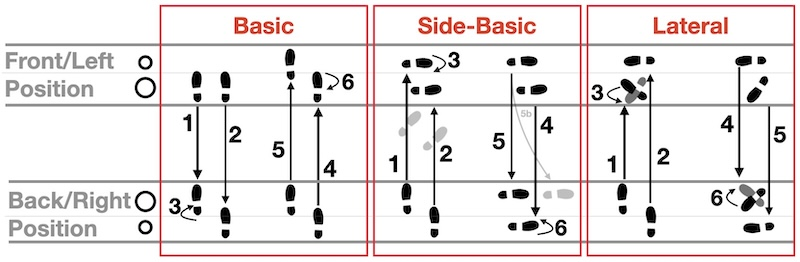
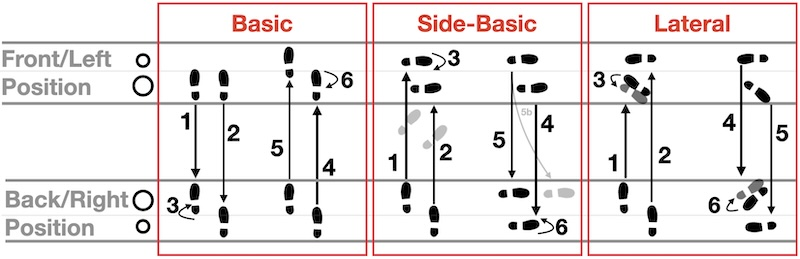
image explanations

Changed region(s): [[0.0, 0.0, 1.0, 0.9884], [0.625, 0.2162, 0.6875, 0.278], [0.5312, 0.5251, 0.5625, 0.6486]]

diff --git a/src/main/kotlin/zouk/tabBeginner/Steps.kt b/src/main/kotlin/zouk/tabBeginner/Steps.kt
@@ -13,8 +13,54 @@ fun ZoukBeginnerSections.steps(dsl: SectionedTabDsl) {
                     +"Which ever steps and moves we make, when there is a clear geometrical line to follow, "
                     +"the leader always steps out, freeing the path for the follower, creating a generous \"red carpet \". "
                 }
-                image("images/steps.jpg", 800 to 262, "Zouk Footwork Overview")
-
+            }
+            subSection("Overview") {
+                // =====================================================================================================
+                html {
+                    image("images/steps.jpg", 800 to 259, "Zouk Footwork Overview")
+                    p {
+                        +"The diagram above 👆🏻 shows the three most basic footwork in Zouk. "
+                        +"All three of them adhere the boom-chick-chick (long-short-short) pattern. "
+                        +"They are also placed on the same spots, distance wise, and thus are all compatible to each other. "; br
+                        +"The top and bottom row, surrounded by the ";b{+"grey line"};+", is the area in which the feet are being placed. "
+                        +"Both areas have two spots, indicated with a bigger and a smaller circle. "
+                        +"The top row is whenever you are positioned more to the front, or left respectively for the side-basic and lateral steps. "
+                        +"Analogous is the bottom row for the back/right position. ";br
+                    }
+                }
+                subSubSection("Basic") {
+                    html {
+                        p {
+                            +"Initial position with both feet next to each other, hip width apart. "
+                            +"Stepping backward (1) for the leader with the left; the follower steps with the right forward, mirroring the footwork. "
+                            +"This is the looong step on the boom, then the right foot follows (2) with a short step, finished with the left foot being lifted (3). "; br
+                            +"The right foot steps forward long on the boom (4), left short step close by (5) and right lifts again (6); and repeat. "
+                        }
+                    }
+                }
+                subSubSection("Side-Basic") {
+                    html {
+                        p {
+                            +"Assuming a basic position, feet hip width apart, left slightly in front of the right, and on the back position. "
+                            +"Step far with the left (long, boom; and also move out of the line of your follower), rotating 90 degrees clockwise (1). "
+                            +"Put the right next to it with a short step (2) and lift the left on the spot (3). "; br
+                            +"From there, the inner leg (in this case the right leg) steps outside of the outer position (4). "
+                            +"The outer leg follows either next to the other leg (5) or stepping a bit forward (5b) into the line of the follower. "
+                            +"Finishing with the outer leg lifting a bit (6). "
+                        }
+                    }
+                }
+                subSubSection("Lateral") {
+                    html {
+                        p {
+                            +"From the basic position, step long with the left foot and rotate it counter-clockwise towards your partner (1). "
+                            +"Bring the other leg in, next to the left one, and rotate it a quarter-turn facing your partner (2). "
+                            +"While you are lifting your left foot, also rotate it further counter-clockwise by a half-turn (3). "; br
+                            +"Stepping to the other side is a matter of crossing your right leg over the left (4) both toes pointing outwards in a V-shape. "
+                            +"Step the inner leg on the outer position (5), and rotate your other foot again by half a turn (6). "
+                        }
+                    }
+                }
             }
             subSection("Basic") {
                 // =====================================================================================================

diff --git a/src/main/kotlin/zouk/tabBeginner/SimpleMoves.kt b/src/main/kotlin/zouk/tabBeginner/SimpleMoves.kt
@@ -21,7 +21,14 @@ fun ZoukBeginnerSections.simple(dsl: SectionedTabDsl) {
                         +"Be patient, do it only on the short steps, so a pattern of: straight - turn - turn. "
                         +"For the beginning, it's easier to turn while the leader is in the back and not in the front position. "
                     }
-                    image("images/star.jpg", 450 to 457, "Rounded Star")
+                    image("images/star.jpg", 450 to 457, "Rounded Star by turning left when on the back")
+                    p {
+                        +"The image above 👆🏻 shows the star as a red line, whereas the black lines show the optimal ";b{+"rounded path"};+" to follow. "
+                        +"Start at the position indicated by the digit 1 (obviously), stepping backward and slightly turn already counter-clockwise while travelling on the chick. "
+                        +"Doing so will avoid a sharp turn, an abrupt experience, creating a bit of a shock moment. "; br
+                        +"Arriving at position 2 going backward, then straight forward to 3, and going backward again to 4 with a ";b{+"curved trajectory"};+". "; br
+                        +"Continue doing so until you reach the 8 and are back in the initial position, finishing a full star."
+                    }
                     youtube("li2As92QDBY?si=1biewGcw4_qQm8FM", "Star as a sequence of turns (on the back only) to the left")
                 }
             }
@@ -29,18 +36,20 @@ fun ZoukBeginnerSections.simple(dsl: SectionedTabDsl) {
                 // =====================================================================================================
                 html {
                     p {
-                        +"Basically a more continuous (every single, instead of every second) routine than the ";ref(ZoukRef.StarMove);+". "
-                        +"Doing a 90-degree turn left (or right respectively) with each chick-chick, ending up in the same direction again after 4 turns (360 degrees). "
+                        +"Basically doing a sequence of turns, just as we did with the ";ref(ZoukRef.StarMove);+" but then on the backside ";i{+"as well as"};+" on the frontside. "
+                        +"Doing a 90-degree turn left (or right respectively) with each chick-chick, ending up in the same direction again after 4 turns (4x90 = 360 degrees). "
                     }
                     youtube(
                         "KemOjG2OgAI?si=CttNiLRjtfZQV8BE", "From close basic, doing a square to the left, four times"
                     )
-                    p {
-                        +"Adhering the principle of always rounding the corners, avoiding sharp edges, follow a footwork as depicted below. "
-                        +"Instead of turning 90 degrees counter-clockwise on the spot, first step a bit out of the box/square. "
-                        +"This will make a significant difference in experienced smoothness for you and your follower. "
-                    }
                     image("images/square.jpg", 400 to 399, "Rounded Square")
+                    p {
+                        +"Adhering the principle of always ";b{+"rounding the corners"};+" follow a footwork as shown above 👆🏻. "
+                        +"Instead of turning 90 degrees counter-clockwise on the spot, first step a bit out of the box/square. "
+                        +"Do so when travelling backward as well as forward. "; br
+                        +"This will make a significant difference in experienced smoothness for you and your follower. "
+
+                    }
                 }
             }
             subSection("Simple Turn") {

diff --git a/src/main/kotlin/zouk/tabPreadvanced/NewMoves.kt b/src/main/kotlin/zouk/tabPreadvanced/NewMoves.kt
@@ -84,7 +84,7 @@ fun ZoukPreadvancedSections.newMoves(dsl: SectionedTabDsl) {
                         +"In Cambre, like with Embrace, all kinds of body-waves are possible here again. "
                     }
                     p {
-                        +"The left hand goes on her scapula (not on her head), the right arm is on the rib cage reaching to the back. "
+                        +"The left hand goes on her scapula, the right arm is on the rib cage reaching to the back. "
                         +"Put her right hand on your waist, so it is underneath yours (will make the coming Lunge afterward easier). "
                         +"First do a bit of a forward movement, a little \"cry on the shoulder\" (the typical counter-move principle), before going back. "; br
                         +"It's difficult to go up again from the Cambre on the 1st beat, you need to be really quick, it's more advanced. "
